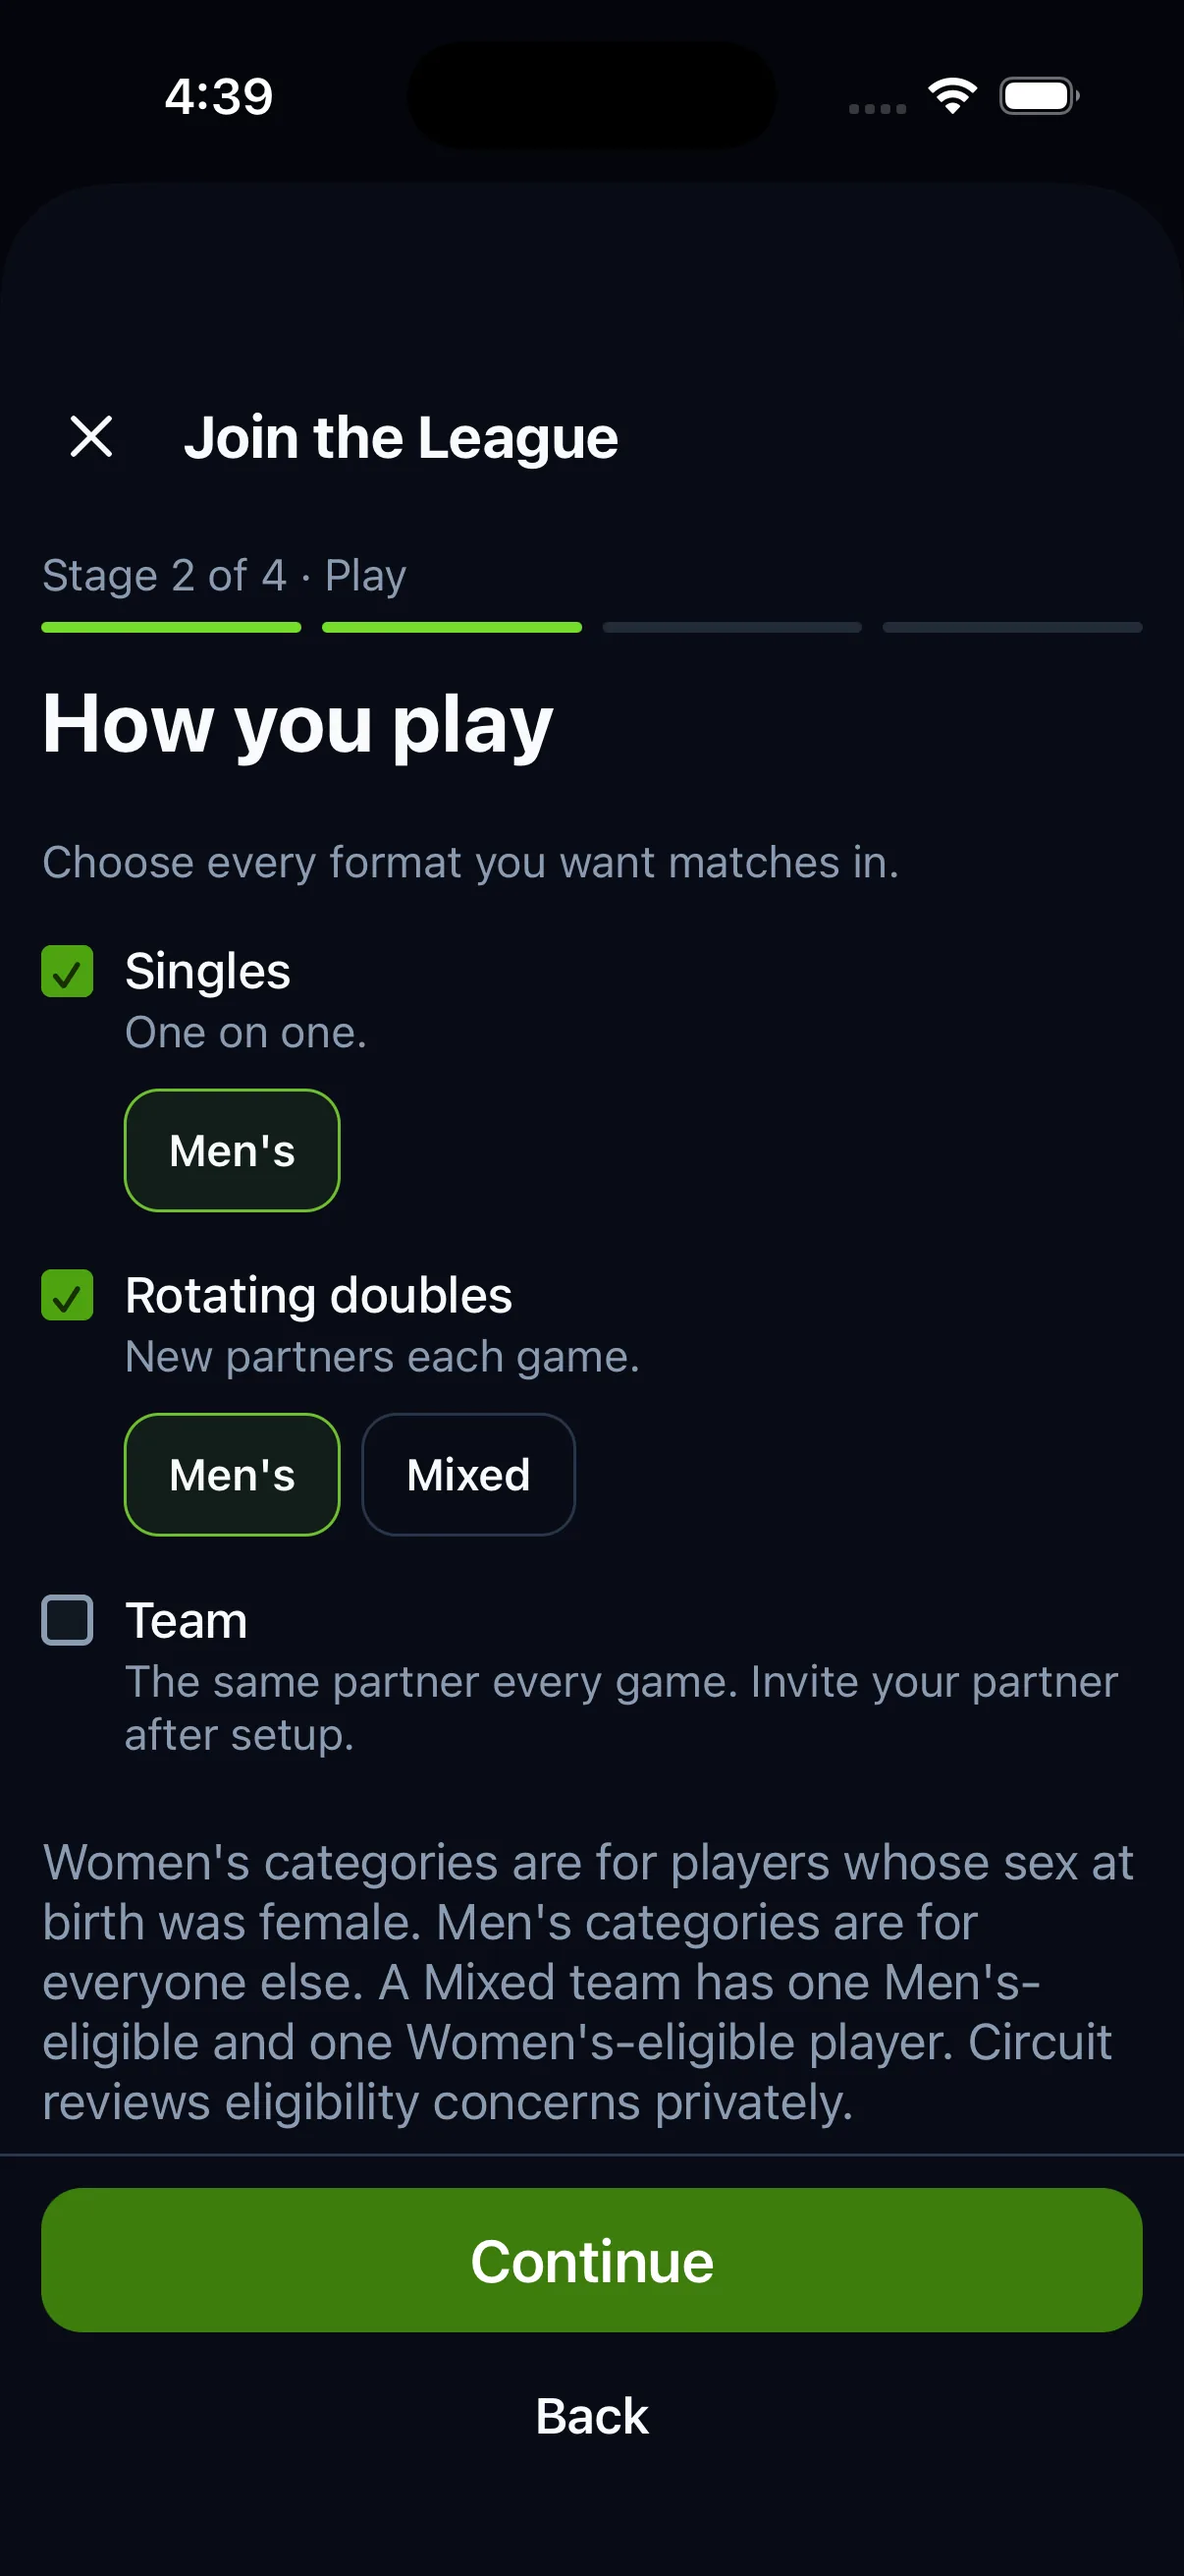
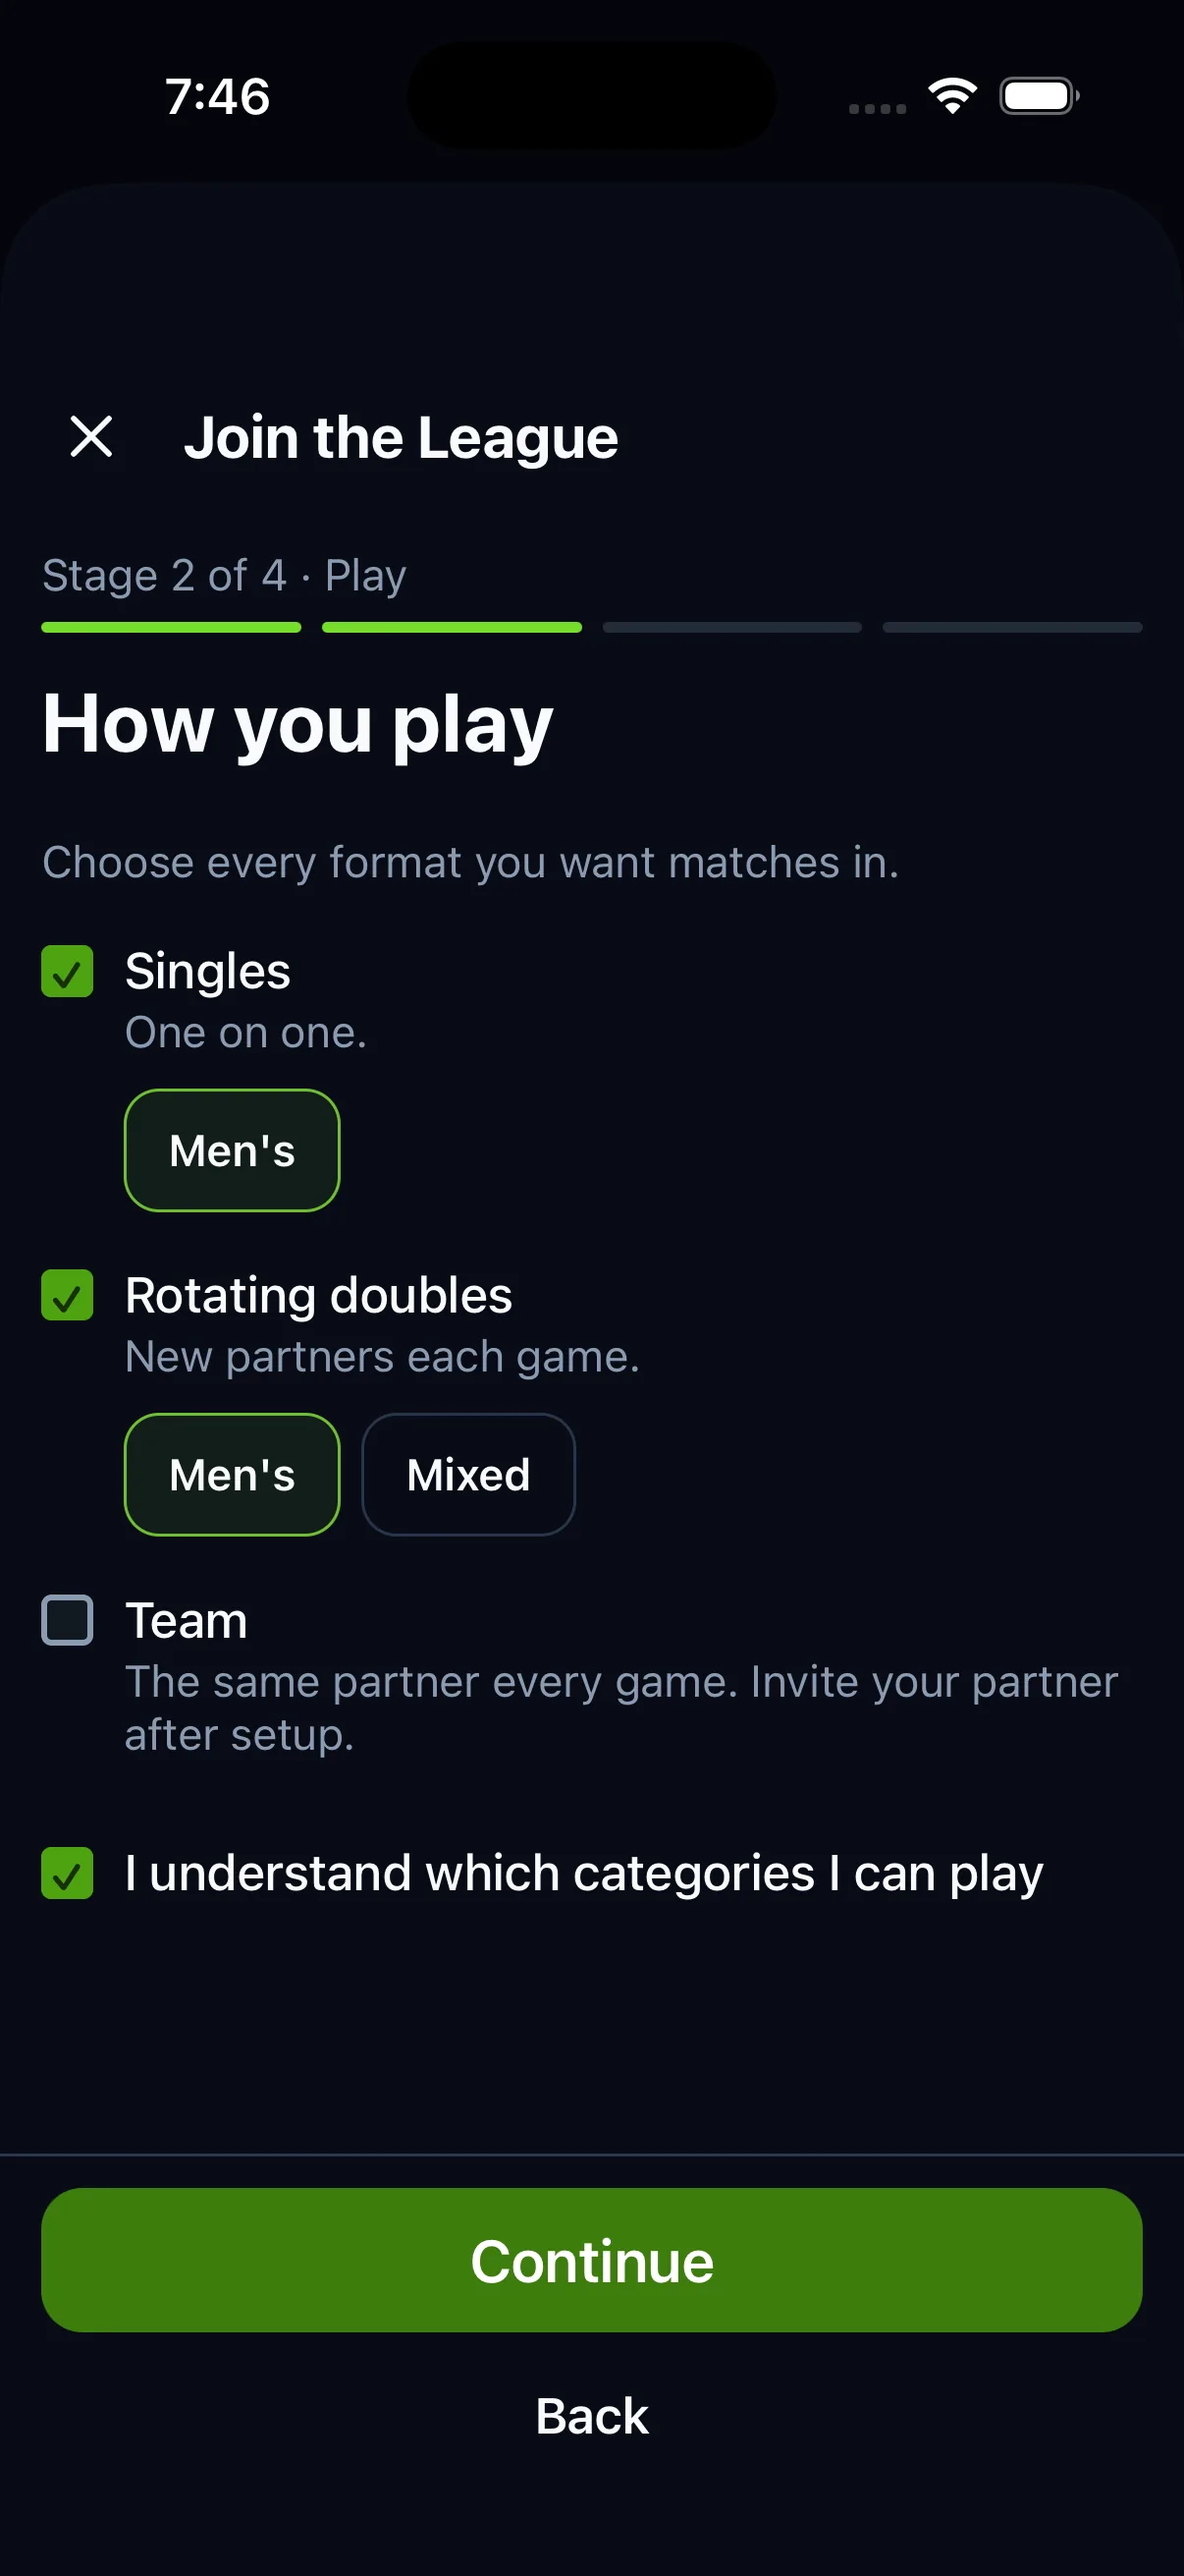
Recapture reactions, This week, setup and conduct; add How standings work
Reactions now sit on the bubble's outer corner as in Messages. The hold
sheet no longer repeats the message, and your own reaction has a green
ring. This week moves its explanation behind an info button (new screen
21). How you play now shows no category paragraph, and the conduct
reminder is the flat row. App base is b9c600d12 on local main.

Changed region(s): [[0.0307, 0.7105, 0.9511, 0.8341], [0.1227, 0.0309, 0.2454, 0.0618], [0.9204, 0.7105, 0.9511, 0.7414]]

diff --git a/index.html b/index.html
@@ -163,7 +163,7 @@ const CHAPTERS = [
   ]},
   { id: 'join', title: 'Join in four stages', who: 'Profile, how you play, preferences, then the release and terms.', person: 'Blake', shots: [
     ['04-setup-entry', 'Profile check', 'DUPR is linked and gender is added, so Continue is on. A photo is optional; other players see initials until one is added.'],
-    ['05-setup-how', 'How you play', 'Blake picks Men’s singles and Men’s rotating doubles. A fixed Team is invited after setup. The category rules must be acknowledged first.'],
+    ['05-setup-how', 'How you play', 'Blake picks Men’s singles and Men’s rotating doubles, then acknowledges which categories he can play. No rule paragraph: the category names already say it.'],
     ['06-setup-venues', 'Choose venues', 'Each venue is a Favorite, a Backup or Don’t use. Suggestions near you stay unsaved until you choose.'],
     ['06b-setup-venues-map', 'Venues on a map', 'The same choices on a map, with your location and nearby courts.'],
     ['07-setup-times', 'Your times', 'Add the times you can play this week or next. Skipping this step is allowed, but matchmaking waits for times.'],
@@ -179,7 +179,8 @@ const CHAPTERS = [
   ]},
   { id: 'home', title: 'Casey’s League home', who: 'Seven weeks in: what needs attention, upcoming matches and standing.', person: 'Casey', shots: [
     ['12-home', 'Home', '#1 in the Austin area for Women’s singles. Wednesday’s match with Sofia is confirmed, and singles search stopped after it was booked.'],
-    ['12b-home-lower', 'This week', 'Season 1, week 7. Last week’s published standings put Casey #1 in the Austin area, Texas and everywhere, still Provisional.'],
+    ['12b-home-lower', 'This week', 'Season 1, week 7. Last week’s published standings put Casey #1 in the Austin area, Texas and everywhere, still Provisional. The info button holds the detail.'],
+    ['12c-standings-info', 'How standings work', 'The info button explains how rank is worked out and how close Casey is to dropping the Provisional label.'],
     ['12c-home-bottom', 'More League', 'The full leaderboard, last week’s recap, saved venues and invites.'],
     ['13-league-menu', 'League menu', 'My QR code for Scan to play, League settings and the rules.'],
   ]},
@@ -195,8 +196,8 @@ const CHAPTERS = [
     ['19b-match-menu', 'Match actions', 'Add to calendar, directions, venue details, report a problem with a player, rules, and Cancel match last.'],
     ['20-chat', 'Match chat', 'Messages with Sofia about Wednesday. The tab bar steps aside so the composer stays clear.'],
     ['20b-chat-players', 'Mute or block', 'From chat, Casey can mute or block Sofia.'],
-    ['20c-chat-react', 'React to a message', 'Hold a message to react. Eight reactions come first, then Reply, Mute, Report and Block.'],
-    ['20d-chat-reacted', 'Reactions', 'Casey’s 🙏 is tinted green, and tapping it removes it. Maya’s ❤ sits under Casey’s message. Reactions never notify anyone.'],
+    ['20c-chat-react', 'React to a message', 'Hold a message to react. The sheet skips repeating the message: eight reactions, then Reply, Mute, Report and Block. Casey’s own 🙏 has a green ring; tapping it removes it.'],
+    ['20d-chat-reacted', 'Reactions', 'As in Messages, reactions sit on the bubble’s outer corner without covering the text: top-right on Maya’s message, top-left on Casey’s. Reactions never notify anyone.'],
   ]},
   { id: 'scores', title: 'Scores', who: 'One side reports, the other side reviews. Unanswered reports count after 48 hours.', person: 'Casey', shots: [
     ['21-score-due', 'Score due', 'Today’s noon match vs Priya. Report by Wednesday noon, or report that someone didn’t come.'],
@@ -258,7 +259,7 @@ const CHAPTERS = [
     ['52b-conduct-case', 'The report', 'It hasn’t been decided. Casey can challenge it until Wednesday 4:23 PM; otherwise it becomes a confirmed finding.'],
     ['52c-conduct-challenge', 'Challenge', 'Explain what happened, up to 500 characters.'],
     ['52d-conduct-under-review', 'Under review', 'Casey’s explanation is sent and the report is under review.'],
-    ['53-home-conduct-task', 'Home reminder', 'While a report needs a response, it leads the League home.'],
+    ['53-home-conduct-task', 'Home reminder', 'While a report needs a response, one flat row leads the League home and opens the conduct record.'],
   ]},
   { id: 'inbox', title: 'Notifications', who: 'League alerts land in the app inbox, newest first.', person: 'Casey', shots: [
     ['54-inbox', 'Inbox', 'Team ready, chat messages, a confirmed match and weekly recaps, with unread items marked New.'],

diff --git a/README.md b/README.md
@@ -4,7 +4,7 @@
 
 One page follows two fictional players through Circuit League on iPhone. Blake joins: intro, the four setup stages, notifications and automatic check-in. Casey has played for seven weeks: offers, chat, score reporting and review, leaderboards, player records, the weekly recap, fixed teams, Scan to play, settings, safety and notifications.
 
-All 80 screens were captured on October 26, 2026 on an iPhone 17 Pro simulator (iOS 26.4) in Dark appearance at the Default app text size. Most come from one walkthrough of the app on local main, after commit `e4e2ed091` and the setup check-in step fix that followed it. Ten were recaptured that evening after the second polish pass and the new match chat reactions (local main `8babf9c93`). Tap any screen to step through the tour full size; arrow keys and swipes move between screens, and `#s12`-style links open a specific screen.
+All 81 screens were captured on October 26, 2026 on an iPhone 17 Pro simulator (iOS 26.4) in Dark appearance at the Default app text size. Most come from one walkthrough of the app on local main, after commit `e4e2ed091` and the setup check-in step fix that followed it. Ten were recaptured that evening after the second polish pass and the new match chat reactions (local main `8babf9c93`). Seven more were captured or recaptured later that night after the reaction badge and standings info changes (local main `b9c600d12`). Tap any screen to step through the tour full size; arrow keys and swipes move between screens, and `#s12`-style links open a specific screen.
 
 All people, matches, venues and safety records are fictional local test data. [Capture list](current-captures.json) names every screen and its source file. [Verification and known gaps](current-evidence.md) records what was checked and what the tour does not show.
 

diff --git a/current-evidence.md b/current-evidence.md
@@ -43,6 +43,18 @@ A later pass, not yet committed to the app repository when these captures were t
 - Setup no longer repeats the category rule in a paragraph, but keeps the confirmation checkbox.
 - Match chat has hold-to-react with eight reactions, shown as two new screens after Mute or block.
 
+The setup and conduct-notice changes above reached the app in that pass, but their screens (6 and 80) still showed the old versions until the third pass below.
+
+## Third pass (2026-10-26, late evening)
+
+App commit `b9c600d12` on local main (not pushed) changed reactions and This week. Six screens were taken again, and one is new:
+
+- Reactions sit in a small badge on the bubble's outer top corner, as in Messages, without covering the text: top-right on someone else's message, top-left on your own (screen 34).
+- The hold sheet no longer repeats the message, and your own reaction has a green ring (screen 33).
+- This week drops the rank explanation and Provisional progress lines. A small info button beside Published standings opens "How standings work" (screens 20 and 21, new).
+- How you play is shown without the category rule paragraph (screen 6).
+- The conduct reminder on League home is shown as the flat row (screen 80).
+
 Other screens in the tour are still the earlier captures.
 
 ## Page checks
@@ -50,7 +62,7 @@ Other screens in the tour are still the earlier captures.
 The page was rendered at 360×800, 390×844 and 1280×900 in a headless browser. At those widths:
 
 - No page scrolled sideways.
-- All 80 images loaded.
+- All 81 images loaded.
 - The screen viewer fit between its counter and caption.
 - Next and the arrow keys stepped through the screens.
 - Escape closed the viewer.
